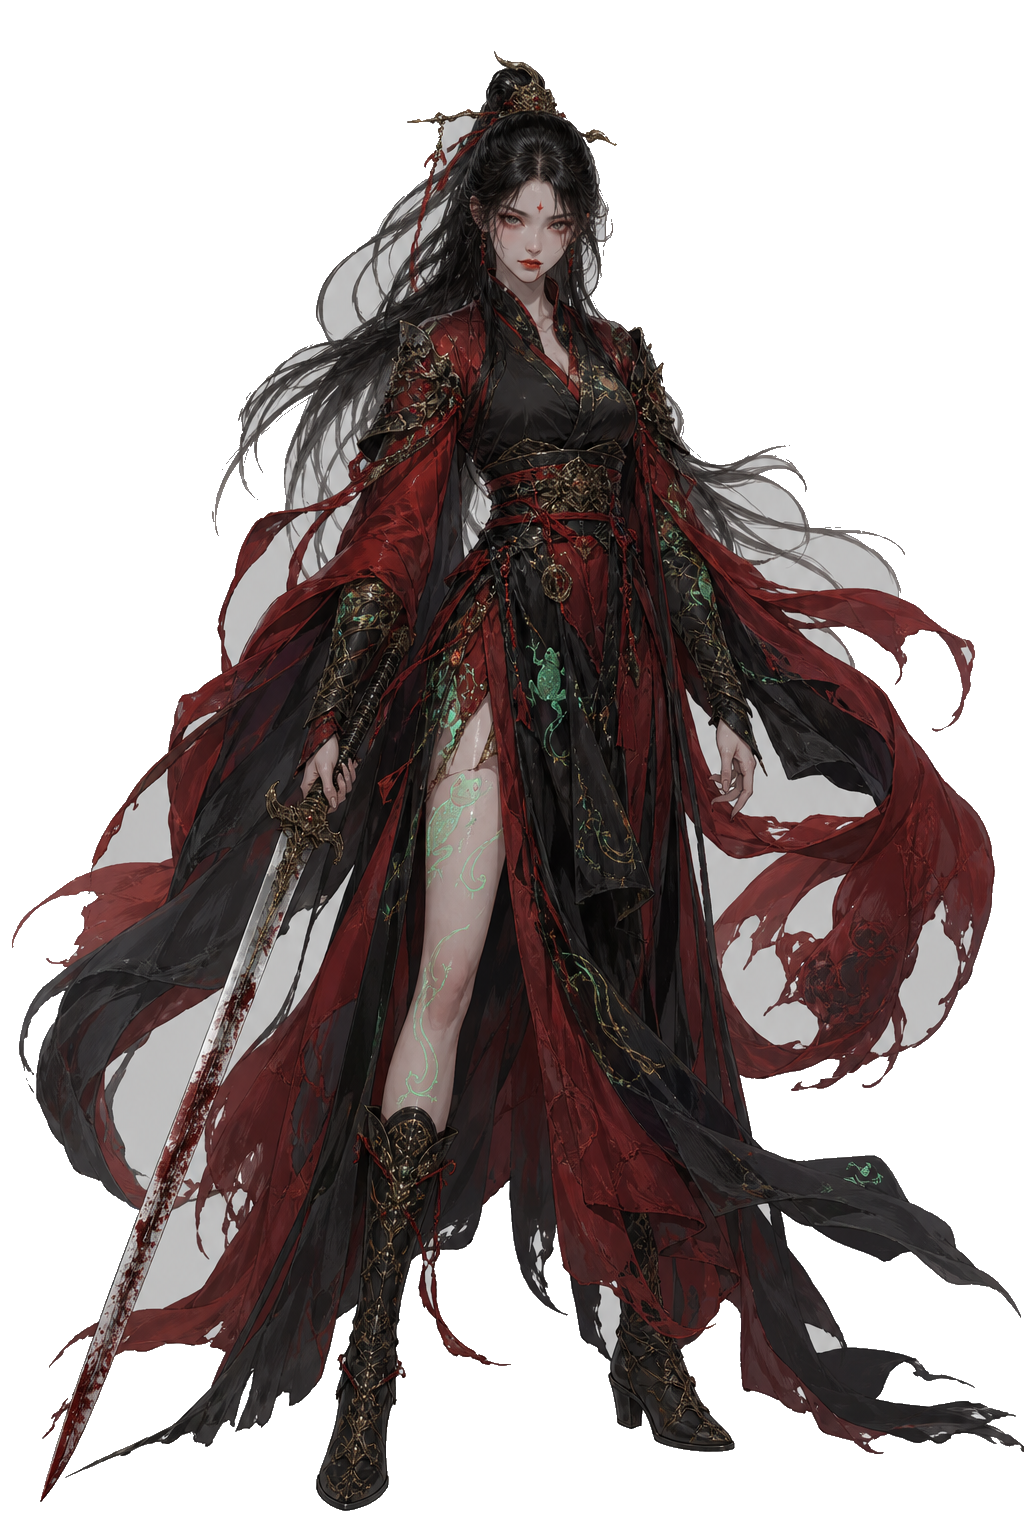
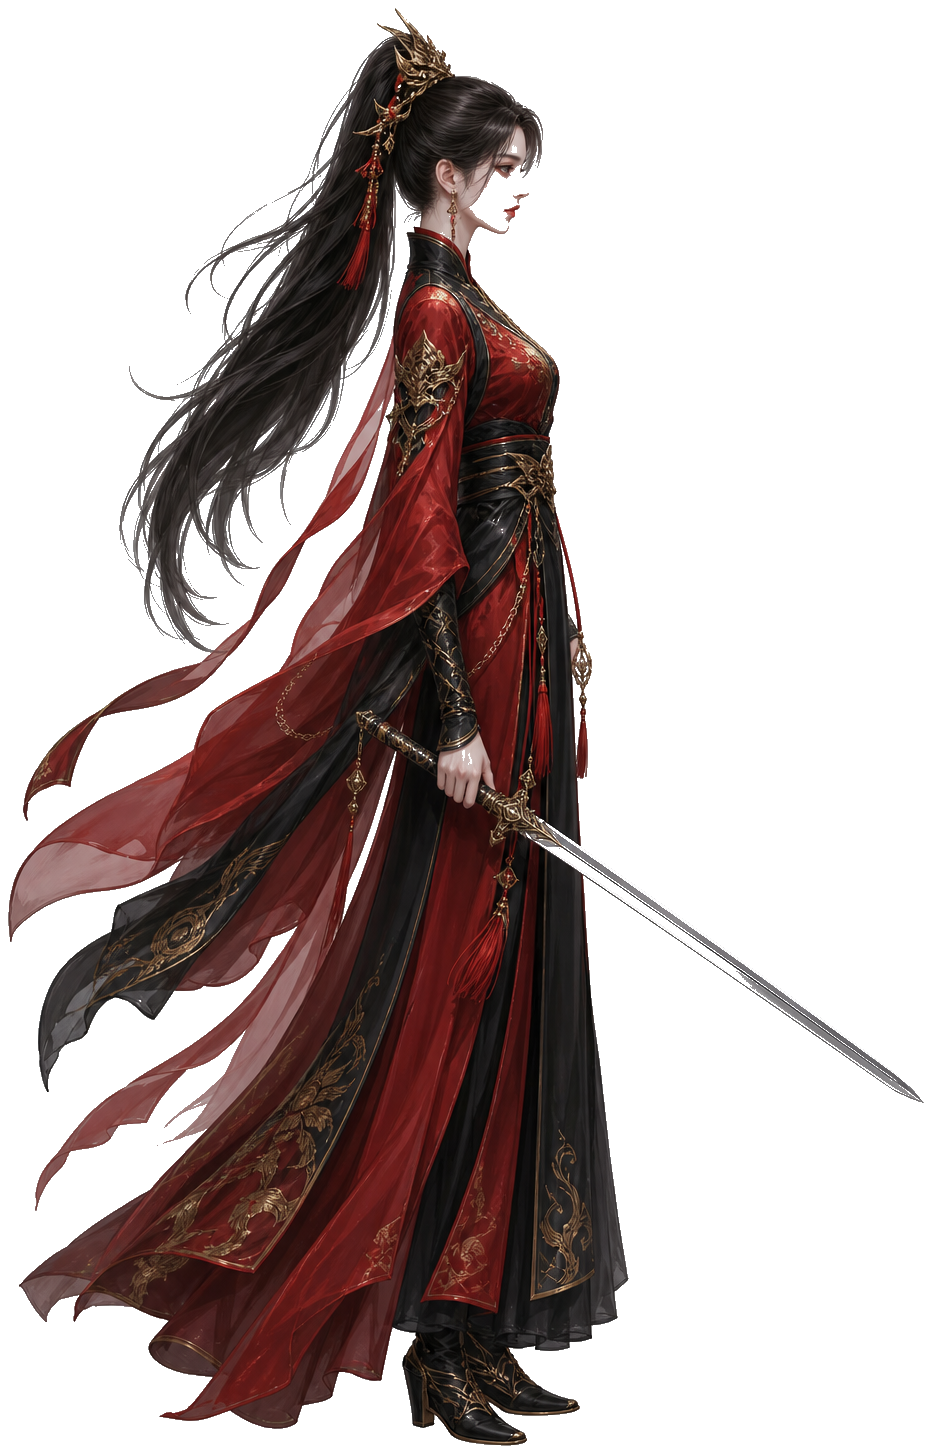
修正角色朝向与比例：侧视勇士、美人蛙公主、统一身高
- 勇士/公主改为侧视朝右立绘，左右移动正确翻转
- 青蛙公主形态改为红衣金冠美人蛙，去掉恐怖巨兽感
- ACTOR 统一显示高度（勇士/公主 168、恶龙 200、蛙 188）

diff --git a/src/entities/Warrior.js b/src/entities/Warrior.js
@@ -1,8 +1,8 @@
 import Phaser from 'phaser';
-import { GAME, WORLD, PLAYER, COLORS } from '../utils/constants.js';
+import { GAME, WORLD, PLAYER, COLORS, ACTOR } from '../utils/constants.js';
 import { gameState } from '../utils/gameState.js';
 import { eventBus, Events } from '../core/EventBus.js';
-import { ASSETS } from '../art/AssetLoader.js';
+import { ASSETS, fitActor, setFacing } from '../art/AssetLoader.js';
 import { BladeQi } from './BladeQi.js';
 
 /**
@@ -23,9 +23,8 @@ export class Warrior {
     const key = scene.textures.exists(ASSETS.WARRIOR) ? ASSETS.WARRIOR : null;
     if (key) {
       this.sprite = scene.physics.add.sprite(x, y, key);
-      this.sprite.setOrigin(0.5, 0.92);
-      const targetH = GAME.HEIGHT * 0.38;
-      this.sprite.setScale(targetH / this.sprite.height);
+      this.sprite.setOrigin(0.5, 1);
+      fitActor(this.sprite, 'warrior');
     } else {
       // TODO: 替换为实际美术资源 — 灰衣斗笠侠客
       const g = scene.make.graphics({ x: 0, y: 0, add: false });
@@ -35,13 +34,15 @@ export class Warrior {
       g.generateTexture('ph_warrior', 40, 60);
       g.destroy();
       this.sprite = scene.physics.add.sprite(x, y, 'ph_warrior');
-      this.sprite.setOrigin(0.5, 0.92);
+      this.sprite.setOrigin(0.5, 1);
     }
 
     this.sprite.setCollideWorldBounds(true);
     this.sprite.body.setAllowGravity(false);
+    this.sprite.setDepth(10);
+    setFacing(this.sprite, this.facing);
     const bw = 28;
-    const bh = 20;
+    const bh = 22;
     this.sprite.body.setSize(bw / this.sprite.scaleX, bh / this.sprite.scaleY);
     this.sprite.body.setOffset(
       (this.sprite.width - bw / this.sprite.scaleX) * 0.5,
@@ -71,11 +72,15 @@ export class Warrior {
 
   setMobileState(m) { this.mobile = m; }
 
+  applyFacing() {
+    setFacing(this.sprite, this.facing, { artFacesRight: ACTOR.FACE_RIGHT });
+  }
+
   aimFromPointer(p) {
-    const a = Phaser.Math.Angle.Between(this.sprite.x, this.sprite.y - 30, p.worldX, p.worldY);
+    const a = Phaser.Math.Angle.Between(this.sprite.x, this.sprite.y - 40, p.worldX, p.worldY);
     this.aimAngle = a;
     this.facing = Math.cos(a) >= 0 ? 1 : -1;
-    this.sprite.setFlipX(this.facing < 0);
+    this.applyFacing();
   }
 
   update(dtOrBlocked = 16, blockedFlag = false) {
@@ -121,7 +126,7 @@ export class Warrior {
       this.aimAngle = Math.atan2(vy, vx);
       if (vx !== 0) {
         this.facing = vx > 0 ? 1 : -1;
-        this.sprite.setFlipX(this.facing < 0);
+        this.applyFacing();
       }
     }
 

diff --git a/src/scenes/CastleScene.js b/src/scenes/CastleScene.js
@@ -9,7 +9,7 @@ import { sound } from '../utils/sound.js';
 import { eventBus, Events } from '../core/EventBus.js';
 import { registerTestHandler } from '../testing/TestAPI.js';
 import { MobileControls, isTouchDevice } from '../ui/MobileControls.js';
-import { ASSETS, showBackground, fitSpriteHeight } from '../art/AssetLoader.js';
+import { ASSETS, showBackground, fitActor } from '../art/AssetLoader.js';
 
 export class CastleScene extends Phaser.Scene {
   constructor() {
@@ -48,7 +48,8 @@ export class CastleScene extends Phaser.Scene {
     const pKey = this.textures.exists(ASSETS.PRINCESS) ? ASSETS.PRINCESS : null;
     if (pKey) {
       this.princess = this.add.image(GAME.WIDTH * 0.85, walkY, pKey).setOrigin(0.5, 1).setDepth(6);
-      fitSpriteHeight(this.princess, GAME.HEIGHT * 0.48);
+      fitActor(this.princess, 'princess');
+      this.princess.setFlipX(true); // 侧视朝右的立绘，面向恶龙（左）
     } else {
       // TODO: 替换为实际美术资源 — 红衣持剑女
       this.princess = this.add.rectangle(GAME.WIDTH * 0.85, walkY - 40, 36, 80, COLORS.PRINCESS, 1).setDepth(6);
@@ -242,9 +243,10 @@ export class CastleScene extends Phaser.Scene {
     const beast = this.textures.exists(ASSETS.FROG_BEAST) ? ASSETS.FROG_BEAST : null;
     if (beast && this.princess.setTexture) {
       this.princess.setTexture(beast);
-      fitSpriteHeight(this.princess, GAME.HEIGHT * 0.42);
+      fitActor(this.princess, 'frogBeast');
+      this.princess.setFlipX(false);
     } else if (this.princess.setFillStyle) {
-      // TODO: 替换为实际美术资源 — 巨大绿色青蛙
+      // TODO: 替换为实际美术资源 — 美人蛙公主
       this.princess.setFillStyle(COLORS.FROG, 1);
     }
     this.cameras.main.flash(400, 40, 120, 60);

diff --git a/src/entities/DragonBoss.js b/src/entities/DragonBoss.js
@@ -1,5 +1,5 @@
 import Phaser from 'phaser';
-import { ASSETS, fitSpriteHeight } from '../art/AssetLoader.js';
+import { ASSETS, fitActor, setFacing } from '../art/AssetLoader.js';
 import { GAME, DRAGON, COLORS, FONT } from '../utils/constants.js';
 
 /**
@@ -42,14 +42,17 @@ export class DragonBoss {
     this.sprite.setDepth(5);
     this.sprite.setCollideWorldBounds(true);
     this.sprite.body.setAllowGravity(false);
+    this.sprite.setOrigin(0.5, 1);
     if (key === ASSETS.DRAGON) {
-      fitSpriteHeight(this.sprite, GAME.HEIGHT * 0.32);
-      this.sprite.body.setSize(this.sprite.width * 0.55, this.sprite.height * 0.4);
+      fitActor(this.sprite, 'dragon');
+      this.sprite.body.setSize(this.sprite.width * 0.5, this.sprite.height * 0.35);
+      this.sprite.body.setOffset(this.sprite.width * 0.25, this.sprite.height * 0.55);
     } else {
       this.sprite.body.setSize(160, 60);
     }
     this.sprite.setData('entity', this);
-    this.sprite.setFlipX(true);
+    // 恶龙立绘默认朝左
+    setFacing(this.sprite, 1, { artFacesRight: false });
 
     this.hpBarBg = scene.add.rectangle(GAME.WIDTH / 2, 48, 520, 18, 0x1a1210, 0.9)
       .setDepth(30).setStrokeStyle(1, 0x6a4030);
@@ -95,7 +98,7 @@ export class DragonBoss {
 
     this.timer -= delta;
     const dx = playerX - this.sprite.x;
-    this.sprite.setFlipX(dx > 0);
+    setFacing(this.sprite, dx >= 0 ? 1 : -1, { artFacesRight: false });
 
     if (this.phase === 'idle' || this.phase === 'chase') {
       const dist = Math.hypot(dx, playerY - this.sprite.y);

diff --git a/src/scenes/PalaceScene.js b/src/scenes/PalaceScene.js
@@ -4,7 +4,7 @@ import { DialogBox } from '../ui/DialogBox.js';
 import { sound } from '../utils/sound.js';
 import { gameState } from '../utils/gameState.js';
 import { registerTestHandler } from '../testing/TestAPI.js';
-import { ASSETS, showBackground, fitSpriteHeight } from '../art/AssetLoader.js';
+import { ASSETS, showBackground, fitActor } from '../art/AssetLoader.js';
 
 export class PalaceScene extends Phaser.Scene {
   constructor() {
@@ -33,16 +33,17 @@ export class PalaceScene extends Phaser.Scene {
       color: COLORS.UI_MUTED,
     }).setOrigin(0.5).setDepth(50);
 
-    // 立绘：勇士左、国王位用公主剪影占位靠右（悬赏氛围）
+    // 立绘：勇士左、悬赏画像右（统一身高比例）
     const warrior = this.add.image(GAME.WIDTH * 0.28, GAME.HEIGHT * 0.92, ASSETS.WARRIOR)
       .setOrigin(0.5, 1).setDepth(10);
-    fitSpriteHeight(warrior, GAME.HEIGHT * 0.62);
+    fitActor(warrior, 'warrior');
+    warrior.setScale(warrior.scaleX * 1.55);
 
     if (this.textures.exists(ASSETS.PRINCESS)) {
-      // 空王座侧的「悬赏画像」氛围 — 用公主立绘半透明
       const portrait = this.add.image(GAME.WIDTH * 0.72, GAME.HEIGHT * 0.55, ASSETS.PRINCESS)
-        .setOrigin(0.5, 1).setAlpha(0.35).setDepth(5);
-      fitSpriteHeight(portrait, GAME.HEIGHT * 0.4);
+        .setOrigin(0.5, 1).setAlpha(0.4).setDepth(5);
+      fitActor(portrait, 'princess');
+      portrait.setScale(portrait.scaleX * 1.2);
     }
 
     this.dialog = new DialogBox(this);

diff --git a/src/art/AssetLoader.js b/src/art/AssetLoader.js
@@ -1,3 +1,5 @@
+import { ACTOR } from '../utils/constants.js';
+
 /** 水墨武侠美术资源键 — 由提示词 AI 生成 */
 export const ASSETS = {
   BG_PALACE: 'bg_palace',
@@ -43,4 +45,33 @@ export function fitSpriteHeight(sprite, targetH) {
   if (!sprite?.height) return sprite;
   sprite.setScale(targetH / sprite.height);
   return sprite;
+}
+
+/** 统一角色身高（脚底对齐用 origin 0.5,1） */
+export function fitActor(sprite, role = 'warrior') {
+  const map = {
+    warrior: ACTOR.WARRIOR_H,
+    princess: ACTOR.PRINCESS_H,
+    dragon: ACTOR.DRAGON_H,
+    frog: ACTOR.FROG_H,
+    frogBeast: ACTOR.FROG_BEAST_H,
+    bug: ACTOR.BUG_H,
+  };
+  return fitSpriteHeight(sprite, map[role] ?? ACTOR.WARRIOR_H);
+}
+
+/**
+ * 设置水平朝向。默认立绘朝右：facing>0 不翻转，facing<0 翻转。
+ * @param {Phaser.GameObjects.Sprite|Phaser.GameObjects.Image} sprite
+ * @param {number} facing 1右 / -1左
+ * @param {{ artFacesRight?: boolean }} [opts]
+ */
+export function setFacing(sprite, facing, opts = {}) {
+  const artRight = opts.artFacesRight !== false;
+  if (artRight) {
+    sprite.setFlipX(facing < 0);
+  } else {
+    // 立绘本身朝左（如恶龙）
+    sprite.setFlipX(facing > 0);
+  }
 }

diff --git a/src/scenes/ChaseScene.js b/src/scenes/ChaseScene.js
@@ -7,7 +7,7 @@ import { sound } from '../utils/sound.js';
 import { eventBus, Events } from '../core/EventBus.js';
 import { registerTestHandler } from '../testing/TestAPI.js';
 import { MobileControls, isTouchDevice } from '../ui/MobileControls.js';
-import { ASSETS, fitSpriteHeight } from '../art/AssetLoader.js';
+import { ASSETS, fitActor, setFacing } from '../art/AssetLoader.js';
 
 const LEVEL_WIDTH = GAME.WIDTH * 4.5;
 
@@ -53,12 +53,11 @@ export class ChaseScene extends Phaser.Scene {
     }
     this.frogPrincess = this.physics.add.sprite(40, walkY, beastKey);
     this.frogPrincess.setOrigin(0.5, 1);
-    if (beastKey === ASSETS.FROG_BEAST) {
-      fitSpriteHeight(this.frogPrincess, GAME.HEIGHT * 0.55);
-    }
+    fitActor(this.frogPrincess, 'frogBeast');
     this.frogPrincess.body.setAllowGravity(false);
     this.frogPrincess.setImmovable(true);
     this.frogPrincess.setDepth(8);
+    setFacing(this.frogPrincess, 1); // 追击时朝右（玩家前方）
 
     this.hud = new HUD(this);
     this.hud.setQuest('逃出密道！');

diff --git a/src/scenes/BootScene.js b/src/scenes/BootScene.js
@@ -1,5 +1,5 @@
 import Phaser from 'phaser';
-import { GAME, COLORS, FONT } from '../utils/constants.js';
+import { GAME, COLORS, FONT, ACTOR } from '../utils/constants.js';
 import { ensurePlaceholderTextures } from '../utils/placeholders.js';
 import { gameState } from '../utils/gameState.js';
 import { sound } from '../utils/sound.js';
@@ -57,9 +57,9 @@ export class BootScene extends Phaser.Scene {
 
     // 右下角立绘剪影
     if (this.textures.exists(ASSETS.WARRIOR)) {
-      const w = this.add.image(GAME.WIDTH * 0.82, GAME.HEIGHT * 0.72, ASSETS.WARRIOR)
-        .setOrigin(0.5, 1).setAlpha(0.85).setDepth(5);
-      w.setScale((GAME.HEIGHT * 0.55) / w.height);
+      const w = this.add.image(GAME.WIDTH * 0.82, GAME.HEIGHT * 0.78, ASSETS.WARRIOR)
+        .setOrigin(0.5, 1).setAlpha(0.9).setDepth(5);
+      w.setScale((ACTOR.WARRIOR_H * 1.8) / w.height);
     }
 
     const go = async () => {

diff --git a/src/scenes/SwampScene.js b/src/scenes/SwampScene.js
@@ -9,7 +9,7 @@ import { sound } from '../utils/sound.js';
 import { eventBus, Events } from '../core/EventBus.js';
 import { registerTestHandler } from '../testing/TestAPI.js';
 import { MobileControls, isTouchDevice } from '../ui/MobileControls.js';
-import { ASSETS, fitSpriteHeight } from '../art/AssetLoader.js';
+import { ASSETS, fitActor, fitSpriteHeight } from '../art/AssetLoader.js';
 
 export class SwampScene extends Phaser.Scene {
   constructor() {
@@ -123,7 +123,7 @@ export class SwampScene extends Phaser.Scene {
     const fy = GAME.HEIGHT * 0.7;
     if (key) {
       this.frog = this.physics.add.staticImage(620, fy, key).setOrigin(0.5, 1);
-      fitSpriteHeight(this.frog, 90);
+      fitActor(this.frog, 'frog');
       this.frog.refreshBody();
     } else {
       // TODO: 替换为实际美术资源 — 绿色小圆+金冠

diff --git a/src/scenes/EndingScene.js b/src/scenes/EndingScene.js
@@ -4,7 +4,7 @@ import { sound } from '../utils/sound.js';
 import { gameState } from '../utils/gameState.js';
 import { eventBus, Events } from '../core/EventBus.js';
 import { registerTestHandler } from '../testing/TestAPI.js';
-import { ASSETS, showBackground, fitSpriteHeight } from '../art/AssetLoader.js';
+import { ASSETS, showBackground, fitActor } from '../art/AssetLoader.js';
 
 export class EndingScene extends Phaser.Scene {
   constructor() {
@@ -32,7 +32,8 @@ export class EndingScene extends Phaser.Scene {
       .setOrigin(0.5, 1)
       .setTint(0xffe08a)
       .setDepth(10);
-    fitSpriteHeight(toad, 64);
+    fitActor(toad, 'frog');
+    toad.setScale(toad.scaleX * 0.85);
 
     const g = this.add.graphics().setDepth(9);
     g.fillStyle(0x3a2a10, 0.45);

diff --git a/src/entities/SwampBug.js b/src/entities/SwampBug.js
@@ -1,5 +1,6 @@
 import Phaser from 'phaser';
-import { BUG } from '../utils/constants.js';
+import { BUG, ACTOR } from '../utils/constants.js';
+import { fitSpriteHeight } from '../art/AssetLoader.js';
 
 /**
  * 沼泽毒虫 — 平面游荡小怪
@@ -35,9 +36,10 @@ export class SwampBug {
 
     this.sprite = scene.physics.add.sprite(x, y, 'bug_placeholder');
     this.sprite.body.setAllowGravity(false);
+    fitSpriteHeight(this.sprite, ACTOR.BUG_H);
     this.sprite.setDepth(5);
     this.sprite.setCollideWorldBounds(true);
-    this.sprite.body.setSize(36, 22);
+    this.sprite.body.setSize(28, 18);
     this.sprite.setData('entity', this);
 
     this.hpBar = scene.add.graphics().setDepth(6);

diff --git a/src/utils/constants.js b/src/utils/constants.js
@@ -85,6 +85,18 @@ export const CHASE = {
   DASH_INVULN: 1000,
 };
 
+/** 角色显示高度（像素）— 统一比例，避免忽大忽小 */
+export const ACTOR = {
+  WARRIOR_H: 168,
+  PRINCESS_H: 168,
+  DRAGON_H: 200,
+  FROG_H: 70,
+  FROG_BEAST_H: 188,
+  BUG_H: 36,
+  /** 立绘默认朝右；flipX 在朝左时开启 */
+  FACE_RIGHT: true,
+};
+
 export const FONT = {
   FAMILY: '"STKaiti", "KaiTi", "SimKai", "Microsoft YaHei", serif',
 };

diff --git a/docs/ART-PROMPTS.md b/docs/ART-PROMPTS.md
@@ -18,3 +18,8 @@
 | 12 | `public/assets/ui/skill_dash.png` | 金蟾脱壳技能图标 |
 
 角色/道具已做边缘泛洪抠图（去灰底）。
+
+## 2026-07 朝向与比例修正
+- 勇士 / 公主 / 青蛙公主：统一为**侧视朝右**立绘，移动时 `flipX` 左右翻转（解决「背对走路」）
+- 青蛙公主巨兽形态改为**美人蛙**（红衣金冠、柔美非恐怖）
+- 显示高度统一见 `ACTOR` 常量（勇士/公主 168、恶龙 200、蛙形态 188）
